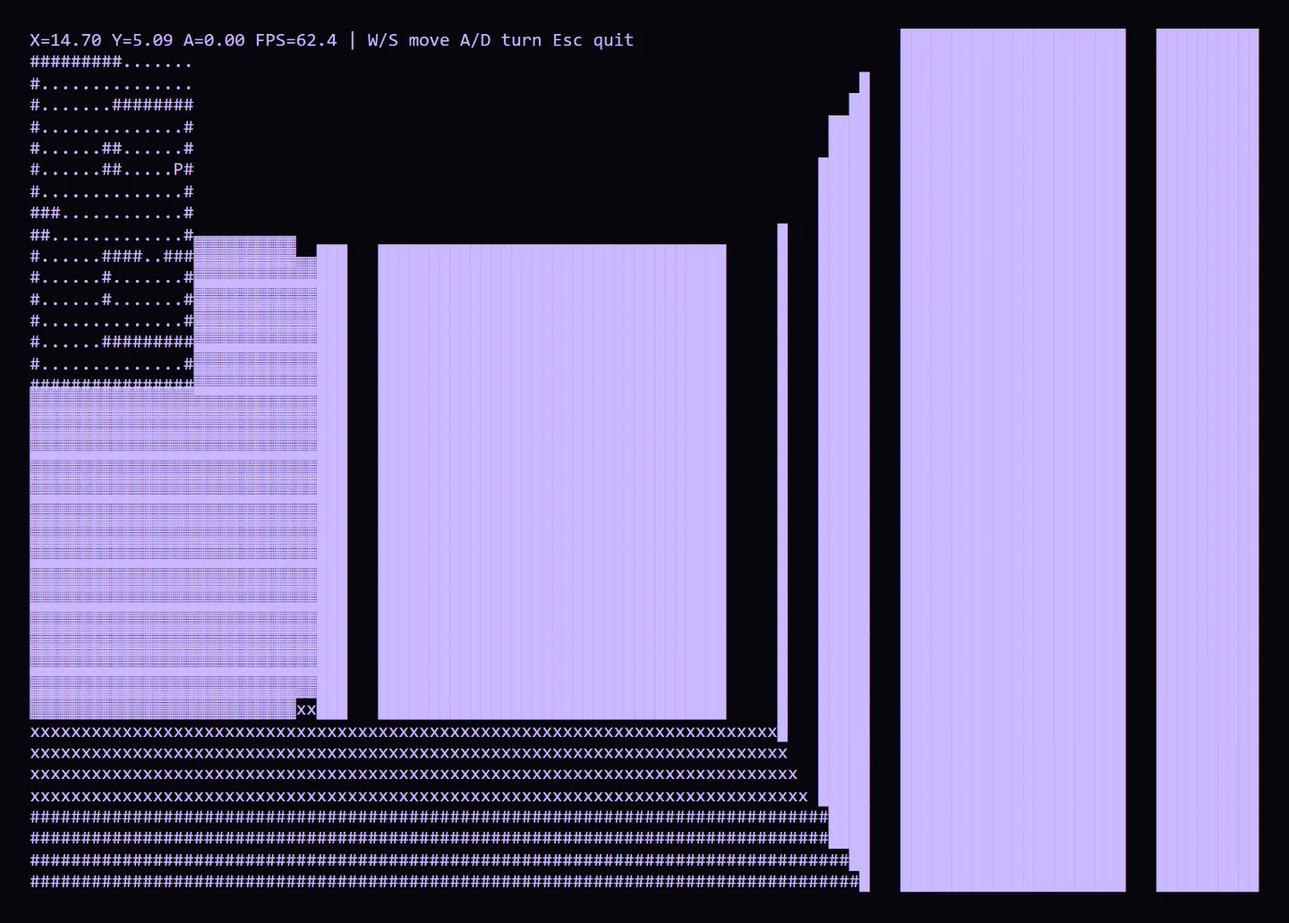
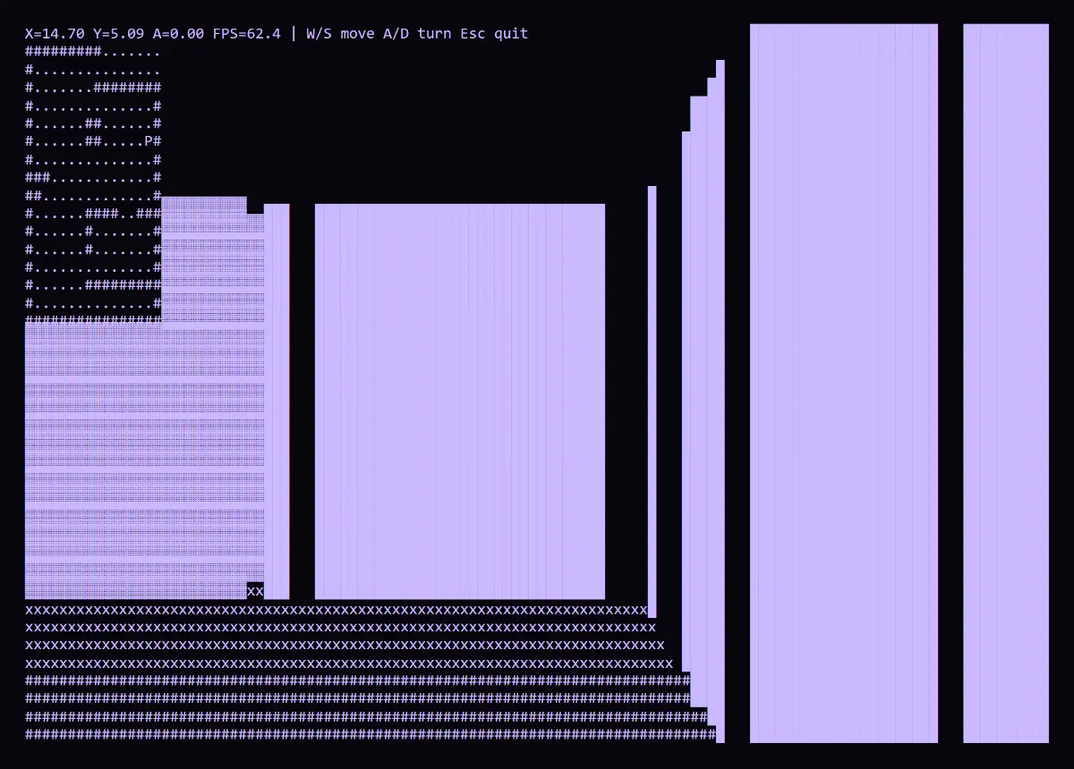
Complete About and Contact, and polish the integrated V2 site (V2 Milestone 06)
About: a readable biography drawn from Resume 15 (UH, the Lone Star College
A.A., the four projects with honest attribution, CodePathways mentoring, and
Walmart work) beside the omar.json card. ASCII art and black holes are no
longer listed as interests; the card notes that the cosmic look is the
site's theme, not a hobby. The heading and footer no longer imply a cosmic
hobby. No portrait. The facts row adds the Lone Star College A.A.

Contact: a finale lit by a localized violet horizon rim that recalls the
entrance without a second black hole, an Email me action, the copyable
address, and LinkedIn, GitHub, and résumé rows. Still static (mailto).

Polish and fixes:
- Visible text now leads the accessible names of the header résumé link and
  the project source links (inherited label/content mismatches).
- Toolkit creation moved out of the coordinator and guarded, so a Toolkit
  error cannot break project navigation; the panel no longer names a div.
- The raycaster frame is re-encoded at 1200 px (130 KB to 78 KB) for mobile.
- Section-top reveals on About and Contact; asset versions bumped.

diff --git a/index.html b/index.html
@@ -27,8 +27,8 @@
   <link rel="preconnect" href="https://fonts.googleapis.com">
   <link rel="preconnect" href="https://fonts.gstatic.com" crossorigin>
   <link href="https://fonts.googleapis.com/css2?family=JetBrains+Mono:wght@400;500&family=Manrope:wght@400;500;600;700;800&display=swap" rel="stylesheet">
-  <link rel="stylesheet" href="styles.css?v=28">
-  <script type="module" src="app.js?v=29"></script>
+  <link rel="stylesheet" href="styles.css?v=29">
+  <script type="module" src="app.js?v=31"></script>
 </head>
 <body>
   <a class="skip-link" href="#main">Skip to content</a>
@@ -39,7 +39,7 @@
       <nav aria-label="Main navigation"><a href="#work">Projects</a><a href="#toolkit">Toolkit</a><a href="#about">About</a><a href="#contact">Contact</a></nav>
       <div class="header-tools">
         <button id="motion-toggle" class="motion-toggle" type="button" aria-label="Pause animation" aria-pressed="false"><span id="motion-icon" aria-hidden="true">Ⅱ</span><span id="motion-label">Pause motion</span></button>
-        <a class="resume-link" href="Omar-Aguilar-Resume.pdf?v=15" aria-label="Resume 15 (PDF)" title="Resume 15" target="_blank" rel="noopener">Résumé <span aria-hidden="true">↗</span></a>
+        <a class="resume-link" href="Omar-Aguilar-Resume.pdf?v=15" title="Resume 15" target="_blank" rel="noopener">Résumé <span aria-hidden="true">↗</span><span class="visually-hidden"> 15 (PDF, opens in a new tab)</span></a>
       </div>
     </div>
   </header>
@@ -78,7 +78,7 @@
             <div class="project-info"><div><p class="project-kicker">01 / Environmental data</p><h3>PermitWatch Houston</h3><p>Bilingual discovery of Houston-region environmental permits.</p></div><span class="project-year">2026</span></div>
             <div class="tags"><span>React</span><span>TypeScript</span><span>Node.js / Express</span><span>SQLite</span><span>MapLibre GL</span></div>
           </button>
-          <div class="project-links"><a class="text-link" href="https://github.com/Abbas9x/permitwatch-houston" target="_blank" rel="noopener noreferrer" aria-label="PermitWatch Houston team source on GitHub">Team GitHub ↗</a><a class="text-link" href="https://permitwatch-houston.onrender.com/" target="_blank" rel="noopener noreferrer">Live demo ↗</a></div>
+          <div class="project-links"><a class="text-link" href="https://github.com/Abbas9x/permitwatch-houston" target="_blank" rel="noopener noreferrer"><span>Team GitHub <span aria-hidden="true">↗</span></span><span class="visually-hidden"> (PermitWatch Houston team source on GitHub, opens in a new tab)</span></a><a class="text-link" href="https://permitwatch-houston.onrender.com/" target="_blank" rel="noopener noreferrer">Live demo ↗</a></div>
           <p class="project-context">Environmental Track Winner · CodeRED Orion</p>
         </article>
         <article class="project-card reveal">
@@ -87,16 +87,16 @@
             <div class="project-info"><div><p class="project-kicker">02 / Automation &amp; tooling</p><h3>Job Application Automation Platform</h3><p>Local job filtering, supported forms, and application history.</p></div><span class="project-year">2026</span></div>
             <div class="tags"><span>JavaScript</span><span>Node.js</span><span>Playwright</span><span>HTML / CSS</span></div>
           </button>
-          <div class="project-links"><a class="text-link" href="https://github.com/Omar-Lyzkru/job-applier" target="_blank" rel="noopener noreferrer" aria-label="Job Application Automation Platform source on GitHub">GitHub source <span aria-hidden="true">↗</span></a></div>
+          <div class="project-links"><a class="text-link" href="https://github.com/Omar-Lyzkru/job-applier" target="_blank" rel="noopener noreferrer"><span>GitHub source <span aria-hidden="true">↗</span></span><span class="visually-hidden"> (Job Application Automation Platform source on GitHub, opens in a new tab)</span></a></div>
           <p class="project-context">AI-assisted development</p>
         </article>
         <article class="project-card reveal">
           <button class="project-open" type="button" data-project="raycaster" aria-label="Read the C++ Console Raycaster case study">
-            <div class="project-art art-raycaster"><img src="assets/raycaster/raycaster-frame.webp" alt="A frame of the raycaster's real console output: block-character walls, a shaded floor, and a map overlay with the player marked P" loading="lazy" decoding="async" width="1440" height="1032"><span class="project-plus" aria-hidden="true">+</span></div>
+            <div class="project-art art-raycaster"><img src="assets/raycaster/raycaster-frame.webp" alt="A frame of the raycaster's real console output: block-character walls, a shaded floor, and a map overlay with the player marked P" loading="lazy" decoding="async" width="1200" height="860"><span class="project-plus" aria-hidden="true">+</span></div>
             <div class="project-info"><div><p class="project-kicker">03 / Console rendering</p><h3>C++ Console Raycaster</h3><p>A first-person scene in character-based console output.</p></div><span class="project-year">2025</span></div>
             <div class="tags"><span>C++</span><span>Windows Console API</span><span>Ray stepping</span></div>
           </button>
-          <div class="project-links"><a class="text-link" href="https://github.com/Omar-Lyzkru/raycaster" target="_blank" rel="noopener noreferrer" aria-label="C++ Console Raycaster source on GitHub">GitHub source <span aria-hidden="true">↗</span></a></div>
+          <div class="project-links"><a class="text-link" href="https://github.com/Omar-Lyzkru/raycaster" target="_blank" rel="noopener noreferrer"><span>GitHub source <span aria-hidden="true">↗</span></span><span class="visually-hidden"> (C++ Console Raycaster source on GitHub, opens in a new tab)</span></a></div>
           <p class="project-context">Tutorial-guided project</p>
         </article>
         <article class="project-card reveal">
@@ -105,7 +105,7 @@
             <div class="project-info"><div><p class="project-kicker">04 / Frontend development</p><h3>Persistent Task Tracker</h3><p>Tasks, inline edits, and saved state in the browser.</p></div><span class="project-year">2026</span></div>
             <div class="tags"><span>JavaScript</span><span>HTML / CSS</span><span>localStorage</span></div>
           </button>
-          <div class="project-links"><a class="text-link" href="https://github.com/Omar-Lyzkru/tiny-task-tracker" target="_blank" rel="noopener noreferrer" aria-label="Persistent Task Tracker source on GitHub">GitHub source <span aria-hidden="true">↗</span></a><a class="text-link" href="https://omar-lyzkru.github.io/tiny-task-tracker/" target="_blank" rel="noopener noreferrer"><span>Live demo <span aria-hidden="true">↗</span></span><span class="visually-hidden"> (Persistent Task Tracker, opens in a new tab)</span></a></div>
+          <div class="project-links"><a class="text-link" href="https://github.com/Omar-Lyzkru/tiny-task-tracker" target="_blank" rel="noopener noreferrer"><span>GitHub source <span aria-hidden="true">↗</span></span><span class="visually-hidden"> (Persistent Task Tracker source on GitHub, opens in a new tab)</span></a><a class="text-link" href="https://omar-lyzkru.github.io/tiny-task-tracker/" target="_blank" rel="noopener noreferrer"><span>Live demo <span aria-hidden="true">↗</span></span><span class="visually-hidden"> (Persistent Task Tracker, opens in a new tab)</span></a></div>
           <p class="project-context">Supporting project</p>
         </article>
       </div>
@@ -122,27 +122,65 @@
       <p class="toolkit-note">Python is also on my résumé, but none of these four projects uses it, so it has no entry here.</p>
     </section>
     <section id="about" class="about-section wrap" aria-labelledby="about-title">
-      <div class="section-top"><p class="eyebrow">03 / THE PERSON BEHIND THE PIXELS</p><span class="mono quiet">HELLO, WORLD.</span></div>
-      <div class="about-grid"><div class="about-copy"><h2 id="about-title">Grounded in code.<br>Drawn to the cosmos<span class="accent">.</span></h2><p>I’m a Computer Science student at the University of Houston, graduating in May 2028. I’m interested in software engineering and building my skills through individual and team projects. At CodeRED Orion, my four-person team won the Environmental Track with PermitWatch Houston. I’m seeking Summer 2027 internships and technical campus experience.</p><p>Outside of coding, I enjoy reading philosophy, watching shows and movies, and playing video games. I’m also really into black holes and ASCII art.</p><a class="text-link" href="Omar-Aguilar-Resume.pdf?v=15" target="_blank" rel="noopener">Download résumé 15 <span class="link-line" aria-hidden="true"></span></a></div><div class="about-terminal"><div class="terminal-bar"><span><i></i><i></i><i></i></span><span>omar.json</span><span>UTF-8</span></div><pre><span class="code-comment">// a small introduction</span>
+      <div class="section-top reveal"><p class="eyebrow">03 / THE PERSON BEHIND THE PIXELS</p><span class="mono quiet">HELLO, WORLD.</span></div>
+      <div class="about-grid">
+        <div class="about-copy">
+          <h2 id="about-title">Learning by building<span class="accent">.</span></h2>
+          <p>I’m a Computer Science student at the University of Houston, graduating in May 2028. Before UH, I earned an Associate of Arts on Lone Star College’s Computer Science Pathway in December 2025. I’m seeking Summer 2027 software engineering internships and student developer or research programming roles.</p>
+          <p>Most of what I know comes from building things: a hackathon project with a four-person team that won the Environmental Track at CodeRED Orion, a local automation app I directed with AI assistance, a C++ raycaster I built by following a tutorial, and a small JavaScript task tracker. Each case study says plainly which parts were mine.</p>
+          <p>Since September 2026, I’ve been a CodePathways peer mentor, meeting one-on-one each week with a UH student. Before that, I worked as a digital personal shopper at Walmart, fulfilling online orders through busy shifts.</p>
+          <p>Outside of coding, I enjoy reading philosophy, watching shows and movies, and playing video games.</p>
+          <a class="text-link" href="Omar-Aguilar-Resume.pdf?v=15" target="_blank" rel="noopener">Download résumé 15 <span class="link-line" aria-hidden="true"></span><span class="visually-hidden"> (PDF, opens in a new tab)</span></a>
+        </div>
+        <figure class="about-terminal">
+          <div class="terminal-bar" aria-hidden="true"><span><i></i><i></i><i></i></span><span>omar.json</span><span>UTF-8</span></div>
+          <pre><span class="code-comment">// a small introduction</span>
 <span class="code-bracket">{</span>
   <span class="code-key">"name"</span>: <span class="code-value">"Omar Aguilar"</span>,
   <span class="code-key">"home"</span>: <span class="code-value">"Houston, TX"</span>,
   <span class="code-key">"studying"</span>: <span class="code-value">"Computer Science"</span>,
   <span class="code-key">"university"</span>: <span class="code-value">"University of Houston"</span>,
   <span class="code-key">"graduating"</span>: <span class="code-value">"May 2028"</span>,
+  <span class="code-key">"seeking"</span>: <span class="code-value">"Summer 2027 internships"</span>,
   <span class="code-key">"interests"</span>: <span class="code-bracket">[</span>
     <span class="code-value">"philosophy"</span>,
     <span class="code-value">"shows &amp; movies"</span>,
-    <span class="code-value">"video games"</span>,
-    <span class="code-value">"ASCII art"</span>,
-    <span class="code-value">"black holes"</span>
+    <span class="code-value">"video games"</span>
   <span class="code-bracket">]</span>
-<span class="code-bracket">}</span></pre><div class="terminal-foot"><span class="accent">✳</span> ALWAYS LEARNING, ALWAYS EXPLORING</div></div></div>
-      <div class="about-facts"><div><span class="mono quiet">EDUCATION</span><strong>B.S. Computer Science</strong><p>University of Houston · Expected May 2028</p></div><div><span class="mono quiet">LEADERSHIP</span><strong>Peer mentor</strong><p>CodePathways · Code[Coogs] × Cougarrettes</p></div><div><span class="mono quiet">TEAM ACHIEVEMENT</span><strong>Environmental Track Winner</strong><p>CodeRED Orion · University of Houston</p></div></div>
+<span class="code-bracket">}</span>
+<span class="code-comment">// the cosmic look is this site’s theme, not a hobby</span></pre>
+          <figcaption class="terminal-foot"><span class="accent" aria-hidden="true">✳</span> ALWAYS LEARNING, ALWAYS EXPLORING</figcaption>
+        </figure>
+      </div>
+      <div class="about-facts">
+        <div><span class="mono quiet">EDUCATION</span><strong>B.S. Computer Science</strong><p>University of Houston · Expected May 2028</p></div>
+        <div><span class="mono quiet">PREVIOUSLY</span><strong>A.A., Computer Science Pathway</strong><p>Lone Star College · December 2025</p></div>
+        <div><span class="mono quiet">LEADERSHIP</span><strong>Peer mentor</strong><p>CodePathways · Code[Coogs] × Cougarrettes</p></div>
+        <div><span class="mono quiet">TEAM ACHIEVEMENT</span><strong>Environmental Track Winner</strong><p>CodeRED Orion · University of Houston</p></div>
+      </div>
     </section>
-    <section id="contact" class="contact-section" aria-labelledby="contact-title"><div class="wrap"><div class="section-top"><p class="eyebrow">04 / OPEN A CHANNEL</p><span class="mono quiet">GOOD THINGS START WITH HELLO.</span></div><div class="contact-grid"><h2 id="contact-title">Let’s create<br>some <em>gravity.</em></h2><div class="contact-copy"><p>Open to software engineering internships, student developer roles, and technical research or campus opportunities.</p><a class="button button-primary" href="mailto:o9086498@gmail.com">Say hello <span aria-hidden="true">+</span></a><div class="email-row"><a href="mailto:o9086498@gmail.com">o9086498@gmail.com</a><button id="copy-email" type="button" aria-label="Copy email address"><svg width="17" height="17" viewBox="0 0 24 24" fill="none" stroke="currentColor" stroke-width="1.5" aria-hidden="true"><rect x="8" y="8" width="12" height="12" rx="2"/><path d="M16 8V5a2 2 0 0 0-2-2H5a2 2 0 0 0-2 2v9a2 2 0 0 0 2 2h3"/></svg></button></div><span id="copy-status" class="copy-status mono" role="status" aria-live="polite"></span></div></div></div></section>
+    <section id="contact" class="contact-section" aria-labelledby="contact-title">
+      <div class="contact-light" aria-hidden="true"></div>
+      <div class="wrap">
+        <div class="section-top reveal"><p class="eyebrow">04 / OPEN A CHANNEL</p><span class="mono quiet">GOOD THINGS START WITH HELLO.</span></div>
+        <div class="contact-grid">
+          <h2 id="contact-title">Let’s create<br>some <em>gravity.</em></h2>
+          <div class="contact-copy">
+            <p>Open to software engineering internships, student developer roles, and technical research or campus opportunities. Email is the quickest way to reach me.</p>
+            <a class="button button-primary" href="mailto:o9086498@gmail.com">Email me <span aria-hidden="true">+</span></a>
+            <div class="email-row"><a href="mailto:o9086498@gmail.com">o9086498@gmail.com</a><button id="copy-email" type="button" aria-label="Copy email address"><svg width="17" height="17" viewBox="0 0 24 24" fill="none" stroke="currentColor" stroke-width="1.5" aria-hidden="true"><rect x="8" y="8" width="12" height="12" rx="2"/><path d="M16 8V5a2 2 0 0 0-2-2H5a2 2 0 0 0-2 2v9a2 2 0 0 0 2 2h3"/></svg></button></div>
+            <span id="copy-status" class="copy-status mono" role="status" aria-live="polite"></span>
+            <ul class="contact-links">
+              <li><a href="https://www.linkedin.com/in/omar-aguilar-b590b4277" target="_blank" rel="noopener noreferrer"><span class="contact-link-name">LinkedIn</span><span class="contact-link-detail mono">in/omar-aguilar-b590b4277</span><span class="contact-arrow" aria-hidden="true">↗</span><span class="visually-hidden"> (opens in a new tab)</span></a></li>
+              <li><a href="https://github.com/Omar-Lyzkru" target="_blank" rel="noopener noreferrer"><span class="contact-link-name">GitHub</span><span class="contact-link-detail mono">Omar-Lyzkru</span><span class="contact-arrow" aria-hidden="true">↗</span><span class="visually-hidden"> (opens in a new tab)</span></a></li>
+              <li><a href="Omar-Aguilar-Resume.pdf?v=15" target="_blank" rel="noopener"><span class="contact-link-name">Résumé</span><span class="contact-link-detail mono">PDF · Resume 15</span><span class="contact-arrow" aria-hidden="true">↗</span><span class="visually-hidden"> (opens in a new tab)</span></a></li>
+            </ul>
+          </div>
+        </div>
+      </div>
+    </section>
   </main>
-  <footer class="site-footer wrap"><a class="brand" href="#"><span>omar<span class="brand-dot">.</span></span><span class="visually-hidden"> Back to top</span></a><span class="footer-note">A little code. A little cosmic curiosity.</span><div><a href="https://github.com/Omar-Lyzkru" target="_blank" rel="noopener noreferrer">GitHub</a><a href="https://www.linkedin.com/in/omar-aguilar-b590b4277" target="_blank" rel="noopener noreferrer">LinkedIn</a><button id="replay-intro" class="replay-intro" type="button" hidden>↻ Replay intro</button><span>© <span id="year">2026</span> Omar Aguilar</span></div></footer>
+  <footer class="site-footer wrap"><a class="brand" href="#"><span>omar<span class="brand-dot">.</span></span><span class="visually-hidden"> Back to top</span></a><span class="footer-note">Built with HTML, CSS, and JavaScript.</span><div><a href="https://github.com/Omar-Lyzkru" target="_blank" rel="noopener noreferrer">GitHub</a><a href="https://www.linkedin.com/in/omar-aguilar-b590b4277" target="_blank" rel="noopener noreferrer">LinkedIn</a><button id="replay-intro" class="replay-intro" type="button" hidden>↻ Replay intro</button><span>© <span id="year">2026</span> Omar Aguilar</span></div></footer>
   </div>
   <dialog id="gateway-dialog" class="gateway" aria-labelledby="gateway-title" aria-describedby="gateway-desc" data-state="closed" inert>
     <div class="gw-scene" aria-hidden="true">

diff --git a/styles.css b/styles.css
@@ -144,13 +144,13 @@ h2{margin-bottom:0;font-size:clamp(32px,4vw,52px);font-weight:750;line-height:1.
 .toolkit-view-arrow{margin-left:.45em;color:var(--accent)}
 .toolkit-note{max-width:62ch;margin:28px 0 0;font-size:14px;line-height:1.7;color:var(--faint)}
 
-/* About (palette only; the final About redesign belongs to a later task) */
+/* About: readable biography beside the omar.json card. No portrait; the cosmic styling is the site's theme, not a listed interest. */
 .about-section{padding-block:96px 100px}
 .about-grid{display:grid;grid-template-columns:1fr 1fr;gap:clamp(32px,5vw,72px);align-items:center;margin-top:40px}
 .about-copy h2{margin-bottom:26px;font-size:clamp(30px,3.6vw,44px)}
 .about-copy p{margin-bottom:16px;font-size:16px;line-height:1.8;color:var(--muted)}
 .about-copy .text-link{margin-top:8px}
-.about-terminal{min-width:0;border:1px solid var(--line);border-radius:16px;background:var(--surface);overflow:hidden;box-shadow:0 30px 70px -40px rgba(141,106,240,.6)}
+.about-terminal{min-width:0;margin:0;border:1px solid var(--line);border-radius:16px;background:var(--surface);overflow:hidden;box-shadow:0 30px 70px -40px rgba(141,106,240,.6)}
 .terminal-bar{display:flex;align-items:center;justify-content:space-between;padding:14px 20px;border-bottom:1px solid var(--line-soft);font:12px var(--mono);color:var(--faint)}
 .terminal-bar>span:first-child{display:flex;gap:6px}
 .terminal-bar i{display:block;width:7px;height:7px;border-radius:50%;background:#40395f}
@@ -159,13 +159,13 @@ h2{margin-bottom:0;font-size:clamp(32px,4vw,52px);font-weight:750;line-height:1.
 .code-comment{color:var(--faint)}.code-key{color:var(--ink)}.code-value{color:var(--accent)}.code-bracket{color:#8b84ad}
 .terminal-foot{padding:14px 24px;border-top:1px solid var(--line-soft);font:12px var(--mono);letter-spacing:.05em;color:var(--faint)}
 .terminal-foot .accent{margin-right:8px}
-.about-facts{display:grid;grid-template-columns:repeat(3,minmax(0,1fr));gap:32px;margin-top:64px;padding-top:30px;border-top:1px solid var(--line-soft)}
+.about-facts{display:grid;grid-template-columns:repeat(4,minmax(0,1fr));gap:32px;margin-top:64px;padding-top:30px;border-top:1px solid var(--line-soft)}
 .about-facts .mono{display:block;margin-bottom:10px;color:var(--faint)}
 .about-facts strong{display:block;font-size:16px;font-weight:650}
 .about-facts p{margin:4px 0 0;font-size:14px;color:var(--muted)}
 
-/* Contact (violet lighting only; the finale redesign belongs to a later task) */
-.contact-section{position:relative;isolation:isolate;overflow:hidden;padding-block:84px 96px;border-top:1px solid var(--line-soft);background:linear-gradient(180deg,transparent,#0c0920)}
+/* Contact finale: localized violet light recalling the entrance (a lit horizon rim, not another black hole), then clear actions. */
+.contact-section{position:relative;isolation:isolate;overflow:hidden;padding-block:84px 150px;border-top:1px solid var(--line-soft);background:linear-gradient(180deg,transparent,#0c0920)}
 .contact-section:before{content:"";position:absolute;z-index:-1;inset:auto -10% -40% 30%;height:120%;background:radial-gradient(50% 55% at 60% 80%,rgba(141,106,240,.32),transparent 72%);pointer-events:none}
 .contact-grid{display:grid;grid-template-columns:1.1fr 1fr;gap:clamp(32px,6vw,90px);align-items:center;margin-top:44px}
 .contact-grid h2{font-size:clamp(40px,6vw,72px);line-height:1.04;letter-spacing:-.045em}
@@ -173,6 +173,13 @@ h2{margin-bottom:0;font-size:clamp(32px,4vw,52px);font-weight:750;line-height:1.
 .contact-copy>p{margin-bottom:22px;font-size:16px;color:var(--muted)}
 .email-row{display:flex;align-items:center;gap:10px;margin-top:22px;font:13px var(--mono);color:var(--muted)}
 .email-row a:hover{color:var(--accent-soft)}
+.contact-light{position:absolute;z-index:-1;left:62%;bottom:-440px;width:max(1100px,120%);height:520px;transform:translateX(-50%);border-radius:50%;background:radial-gradient(closest-side,#07060e 0 94%,rgba(7,6,14,0) 100%);box-shadow:0 -1px 0 0 rgba(216,201,255,.5),0 -16px 54px -8px rgba(141,106,240,.6),0 -70px 170px 0 rgba(86,58,190,.32);pointer-events:none}
+.contact-links{margin:28px 0 0;padding:0;list-style:none;border-top:1px solid var(--line-soft)}
+.contact-links a{display:grid;grid-template-columns:auto minmax(0,1fr) auto;align-items:center;gap:16px;min-height:54px;border-bottom:1px solid var(--line-soft)}
+.contact-link-name{font-size:15px;font-weight:650;transition:color .2s}
+.contact-link-detail{font-size:12px;color:var(--faint);overflow-wrap:anywhere}
+.contact-arrow{color:var(--accent)}
+.contact-links a:hover .contact-link-name{color:var(--accent-soft)}
 #copy-email{display:flex;padding:10px;border:0;background:transparent;color:var(--faint);border-radius:8px}
 #copy-email:hover{color:var(--accent-soft)}
 .copy-status{display:block;min-height:17px;margin-top:4px;font-size:12px;color:var(--accent)}
@@ -318,7 +325,7 @@ html[data-gateway="pending"] body>:not(.gateway),html[data-gateway="pending"] .g
 #main:focus-visible,section[tabindex="-1"]:focus-visible{outline:none}
 
 /* Responsive */
-@media(max-width:1100px){.wrap{width:calc(100% - 48px)}.about-facts{gap:24px}}
+@media(max-width:1100px){.wrap{width:calc(100% - 48px)}.about-facts{grid-template-columns:repeat(2,minmax(0,1fr));gap:24px 32px}}
 @media(max-width:960px){
   .hero{grid-template-columns:minmax(0,1fr);gap:48px;padding-bottom:84px}
   .hero:before{inset:34% -30% -4% -20%}
@@ -329,7 +336,7 @@ html[data-gateway="pending"] body>:not(.gateway),html[data-gateway="pending"] .g
   .toolkit{grid-template-columns:minmax(0,1fr)}
   .toolkit-section{padding-block:68px 76px}
   .about-grid,.contact-grid{grid-template-columns:minmax(0,1fr)}
-  .about-section{padding-block:72px 76px}.contact-section{padding-block:64px 72px}
+  .about-section{padding-block:72px 76px}.contact-section{padding-block:64px 130px}
 }
 @media(max-width:700px){
   .wrap{width:calc(100% - 40px)}

diff --git a/app.js b/app.js
@@ -2,7 +2,7 @@ import { drawProjectArt } from './blackhole.js';
 import { createMotionPolicy } from './motion.js';
 import { classifyProjectRoute } from './route.js';
 import { createEntrySession } from './session.js';
-import { createToolkit } from './toolkit.js?v=1';
+import { createToolkit } from './toolkit.js?v=2';
 
 const kinds = { job: 'server' }; // the other cards show genuine captures; the Job card keeps its illustrative cover
 document.querySelectorAll('[data-art]').forEach(canvas => drawProjectArt(canvas, kinds[canvas.dataset.art]));
@@ -280,8 +280,8 @@ const projects = {
       "recognition": ["How it was built", "Tutorial-guided · followed a YouTube programming tutorial"],
       "hero": {
         "src": "assets/raycaster/raycaster-frame.webp",
-        "width": 1440,
-        "height": 1032,
+        "width": 1200,
+        "height": 860,
         "alt": "One frame of the C++ Console Raycaster drawn in characters: a status line reading X=14.70 Y=5.09 A=0.00 FPS=62.4, the 16 by 16 map overlay with the player marked P, solid block-character walls whose height depends on distance, blank gaps at detected tile edges, and rows of x and # characters shading the floor.",
         "caption": "Real output: one frame read from the running Windows renderer’s console screen buffer at its starting position, October 19, 2026. The characters are unchanged; the font and violet color are presentation."
       },
@@ -799,8 +799,6 @@ const coordinator = (() => {
     if (event.clientX < bounds.left || event.clientX > bounds.right || event.clientY < bounds.top || event.clientY > bounds.bottom) close();
   });
   document.querySelectorAll('[data-project]').forEach(button => button.addEventListener('click', () => { if (open(button.dataset.project, 'card', button)) entrySession.markEntered(); }));
-  // The Toolkit's View case study controls open the same presentation through this coordinator (A-V2.4).
-  toolkit = createToolkit({ root: document.querySelector('[data-toolkit]'), projects, motion, onView: (id, button) => { if (open(id, 'toolkit', button)) entrySession.markEntered(); } });
 
   // A reduced-motion request or a viewport change mid-run resolves it to its final state at once.
   motion.subscribe(reduced => { if (reduced) endMotion(true); });
@@ -809,6 +807,12 @@ const coordinator = (() => {
   setPhase('portfolio');
   return { open, close, sync, motion, get phase() { return phase; } };
 })();
+// The Toolkit's View case study controls open the same presentation through the coordinator (A-V2.4). It is created
+// outside the coordinator so a Toolkit failure can never take project navigation down with it.
+try {
+  toolkit = createToolkit({ root: document.querySelector('[data-toolkit]'), projects, motion, onView: (id, button) => { if (coordinator.open(id, 'toolkit', button)) entrySession.markEntered(); } });
+} catch { toolkit = null; }
+
 // Entry is recorded for supported and invalid project URLs (here) and for card-origin opens (in the coordinator).
 // Ordinary page loads establish nothing until the visitor enters or skips.
 const routeKind = classifyProjectRoute(location.href, routes).kind;

diff --git a/toolkit.js b/toolkit.js
@@ -151,7 +151,6 @@ export function createToolkit({ root, projects, motion, onView, initial = 'javas
       }
       list.append(item);
     }
-    panel.setAttribute('aria-labelledby', title.id);
     panel.replaceChildren(el('p', 'toolkit-kicker mono', tech.group), title, el('p', 'toolkit-count mono', `Used in ${count} of ${Object.keys(projects).length} projects`), list);
   }
 

diff --git a/README.md b/README.md
@@ -15,6 +15,6 @@ The **Technical Toolkit** (`toolkit.js`) links each technology to the projects t
 
 The downloadable résumé is an exact copy of Resume 15. Project ownership and implementation context are included in the case studies.
 
-The site uses a dark violet identity (Manrope for the interface, JetBrains Mono for code and technical labels) with a developer-first homepage that features PermitWatch Houston, followed by an equal-sized two-column project grid. The Pause motion control in the header and the operating-system reduced-motion setting share one motion policy. The Job Application Automation card keeps an illustrative character-based cover tinted to the palette; its case study uses a workflow diagram that is labeled as an illustration. The PermitWatch images are screenshots of the actual public team demo (landing page captured October 14, 2026; results view captured October 17, 2026).
+The site uses a dark violet identity (Manrope for the interface, JetBrains Mono for code and technical labels). The sections run in this order: a developer-first homepage that features PermitWatch Houston, an equal-sized two-column project grid, the Technical Toolkit, an About section (a biography beside an `omar.json` card, with no portrait), and a Contact finale lit by a violet horizon rather than a second black hole. The Pause motion control in the header and the operating-system reduced-motion setting share one motion policy. The Job Application Automation card keeps an illustrative character-based cover tinted to the palette; its case study uses a workflow diagram that is labeled as an illustration. The PermitWatch images are screenshots of the actual public team demo (landing page captured October 14, 2026; results view captured October 17, 2026).
 
 GitHub Pages serves the root files directly via `.nojekyll`. For local preview, run `python3 -m http.server 4173` from the repository root. No dependencies or build step are needed.

diff --git a/assets/raycaster/PROVENANCE.md b/assets/raycaster/PROVENANCE.md
@@ -3,7 +3,7 @@
 | File | Use |
 |---|---|
 | `frame.txt` | The raw 120 × 40 characters, exactly as read from the console |
-| `raycaster-frame.webp` (1440 × 1032) | Project card and case-study hero |
+| `raycaster-frame.webp` (1200 × 860) | Project card and case-study hero |
 
 ## Origin
 
